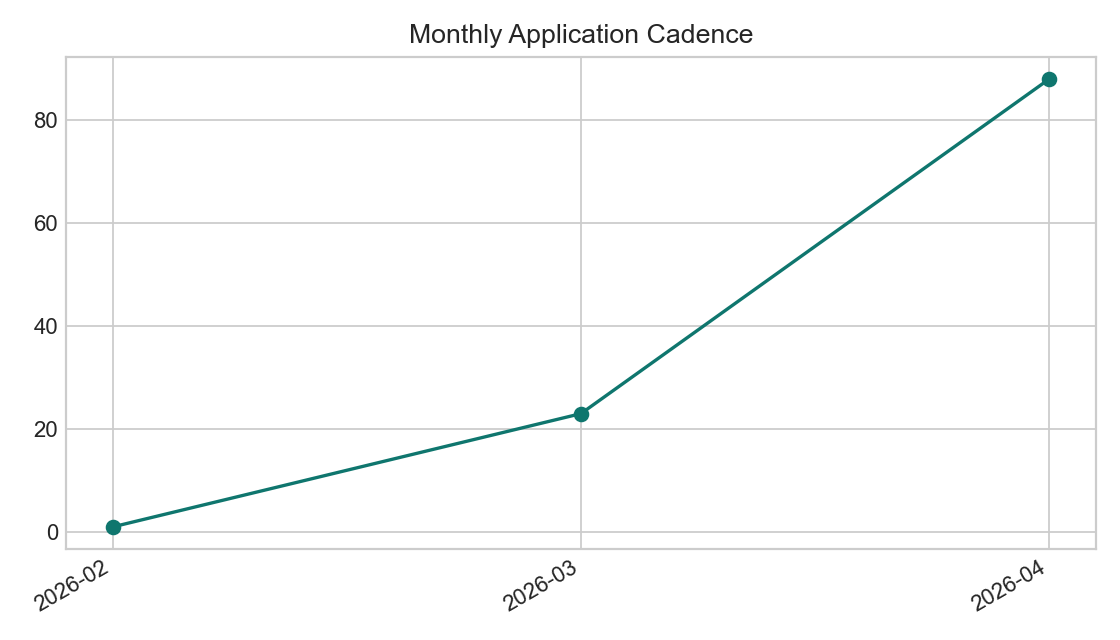
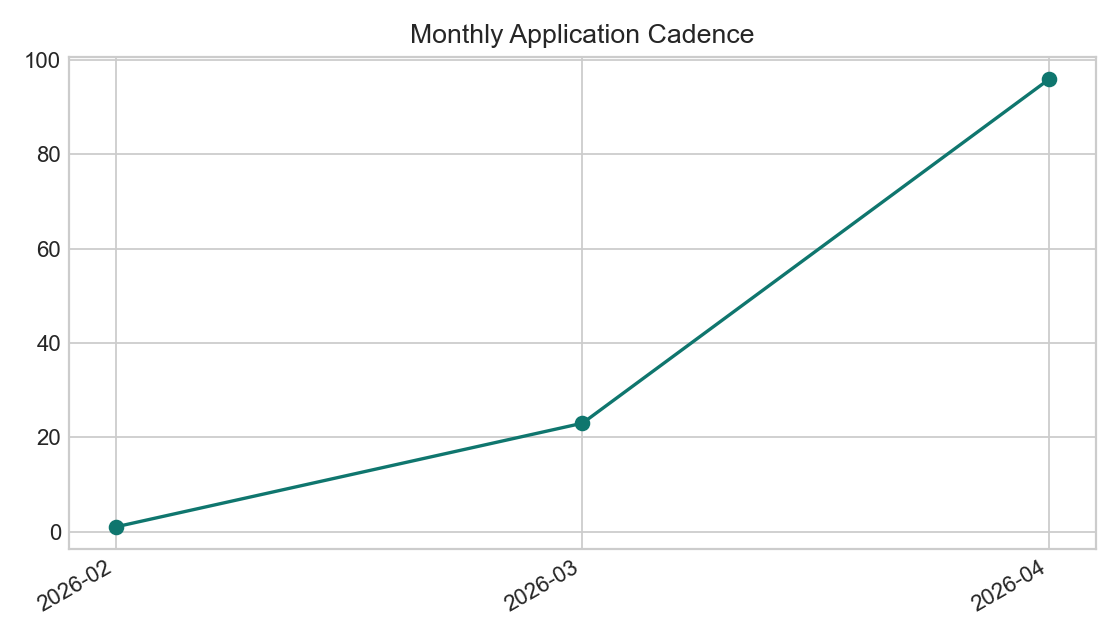
daily analytics refresh 2026-05-01

diff --git a/data/daily_summary.md b/data/daily_summary.md
@@ -1,6 +1,6 @@
 # Daily Job Search Summary
 
-_Last refreshed: 2026-04-30T01:28:13-07:00_
+_Last refreshed: 2026-05-01T23:48:18-07:00_
 
 ## Positioning
 
@@ -10,39 +10,40 @@ _Last refreshed: 2026-04-30T01:28:13-07:00_
 
 ## Snapshot
 
-- Tracked roles: 234
-- Active roles: 90
-- Response rate: 0.9%
+- Tracked roles: 254
+- Active roles: 98
+- Response rate: 1.7%
 - LinkedIn outreach sent: 20
-- Pending pipeline items: 124
-- Recommended pipeline items: 29
-- Average evaluated score: 3.73
+- Pending pipeline items: 136
+- Recommended pipeline items: 31
+- Average evaluated score: 3.75
 
 ## Status Breakdown
 
-- applied: 89
+- applied: 96
 - discarded: 3
-- interview: 1
+- interview: 2
 - rejected: 19
 
 ## Recent Activity
 
+- 2026-04-30: TWG Global | Associate AI Data Scientist | applied
+- 2026-04-30: Nordstrom | Data Scientist - Digital Data Science | applied
+- 2026-04-30: Stackline | Data Analyst I | applied
+- 2026-04-30: Amazon | Business Intelligence Engineer, WHS Data | applied
+- 2026-04-30: Snowflake | Analyst, Finance Analytics & AI | applied
+- 2026-04-30: Applied Systems | Associate AI Engineer / AI Engineer | applied
+- 2026-04-30: ParSpec | Machine Learning Engineer - 1 | applied
+- 2026-04-30: Nordstrom | Data Scientist I, Digital Data Science | applied
 - 2026-04-29: Adelaide Metrics | Business Intelligence Engineer | applied
 - 2026-04-29: Adelaide Metrics | Data Scientist | applied
-- 2026-04-29: Insurify | Business Data Analyst | applied
-- 2026-04-29: Qualified Health | Product Analyst | applied
-- 2026-04-29: Point Predictive | QA Engineer | applied
-- 2026-04-29: Apex Fintech Solutions | Associate Product Analyst (ALDP) | applied
-- 2026-04-29: Enhance IT | Data Analyst | applied
-- 2026-04-29: ATC | Data Analyst | applied
-- 2026-04-29: Quest Global | Data Analyst | applied
-- 2026-04-29: Quantifind | Associate Data Scientist | applied
 
 ## Recommended Opportunity Queue
 
 - Airtable | AI Analytics Engineer (AI & Analytics Platform) | https://job-boards.greenhouse.io/airtable/jobs/8434287002
 - Anthropic | Support Operations Analyst | https://job-boards.greenhouse.io/anthropic/jobs/5080931008
 - Brex | Data Analyst III | https://www.brex.com/careers/8463704002?gh_jid=8463704002
+- Brex | Revenue Operations Analyst | https://www.brex.com/careers/8530763002?gh_jid=8530763002
 - Carta | Data Operations Analyst | https://job-boards.greenhouse.io/carta/jobs/7592159003
 - Chime | Data Analyst, Financial Crimes & Identity | https://boards.greenhouse.io/chime/jobs/8485895002
 - Discord | Recruiting Data Analyst | https://job-boards.greenhouse.io/discord/jobs/8523903002
@@ -50,21 +51,20 @@ _Last refreshed: 2026-04-30T01:28:13-07:00_
 - Figma | Data Scientist | https://boards.greenhouse.io/figma/jobs/5552580004
 - Figma | Data Scientist, Core Data - PhD (2026) | https://boards.greenhouse.io/figma/jobs/5976930004?gh_jid=5976930004
 - Gusto | GTM Analytics Engineer | https://job-boards.greenhouse.io/gusto/jobs/7557049
+- Gusto | Product Data Scientist - Growth | https://job-boards.greenhouse.io/gusto/jobs/6356147
 - Gusto | Revenue Operations Analyst | https://job-boards.greenhouse.io/gusto/jobs/7797180
 - Pinterest | Machine Learning Engineer II | https://www.pinterestcareers.com/jobs/?gh_jid=7681666
 - Pinterest | Machine Learning Engineer II, Core Engineering | https://www.pinterestcareers.com/jobs/?gh_jid=7473497
-- Pinterest | Machine Learning Engineer, Core Engineering | https://www.pinterestcareers.com/jobs/?gh_jid=6121450
-- Pinterest | Machine Learning Engineer, Monetization Engineering | https://www.pinterestcareers.com/jobs/?gh_jid=6121543
 
 ## Needs Attention
 
-- Microsoft | Applied Scientist: Microsoft AI Development Acceleration Program | 49 days with no response
-- Nvidia | Deep Learning Architect, LLM Inference - New College Grad 2026 | 49 days with no response
-- Google | Software Engineer II, Early Career | 45 days with no response
-- Apple | AIML - Machine Learning Research | 38 days with no response
-- Amazon | Data Engineer II | 36 days with no response
-- Amazon | Software Development Engineer – Amazon Leo (US) | 36 days with no response
-- Amazon | Software Development Engineer - 2026 (US) | 36 days with no response
-- Amazon | 软件开发工程师（2026届校招）, Beijing | 36 days with no response
-- Amazon | 软件开发工程师, (New graduate or Entry-level Engineer, 0-2 Years) | 36 days with no response
-- Esri | Product Test Engineer II - Feature Server | 36 days with no response
+- Microsoft | Applied Scientist: Microsoft AI Development Acceleration Program | 50 days with no response
+- Nvidia | Deep Learning Architect, LLM Inference - New College Grad 2026 | 50 days with no response
+- Google | Software Engineer II, Early Career | 46 days with no response
+- Apple | AIML - Machine Learning Research | 39 days with no response
+- Amazon | Data Engineer II | 37 days with no response
+- Amazon | Software Development Engineer – Amazon Leo (US) | 37 days with no response
+- Amazon | Software Development Engineer - 2026 (US) | 37 days with no response
+- Amazon | 软件开发工程师（2026届校招）, Beijing | 37 days with no response
+- Amazon | 软件开发工程师, (New graduate or Entry-level Engineer, 0-2 Years) | 37 days with no response
+- Esri | Product Test Engineer II - Feature Server | 37 days with no response
